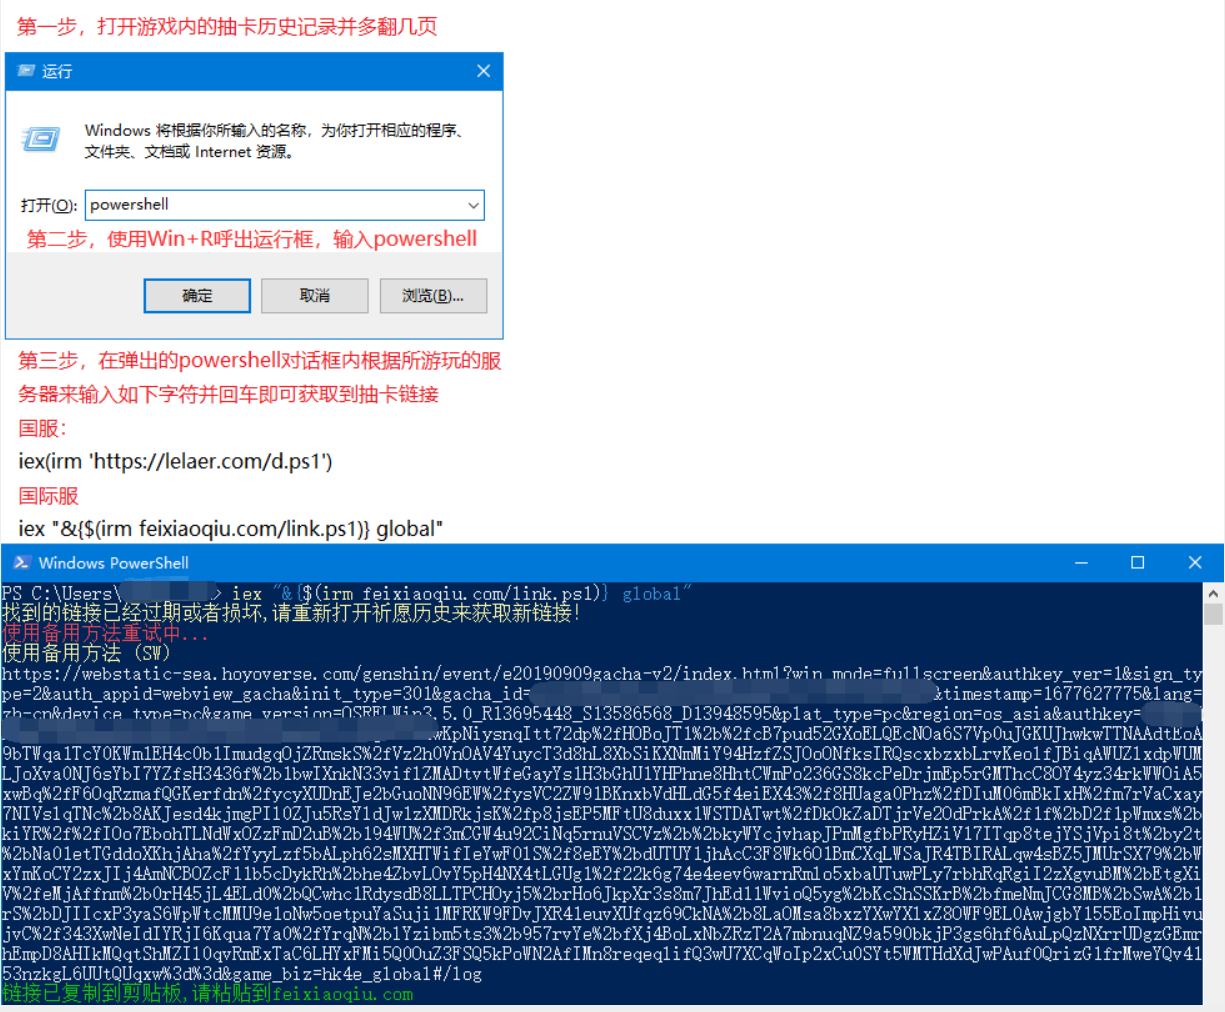
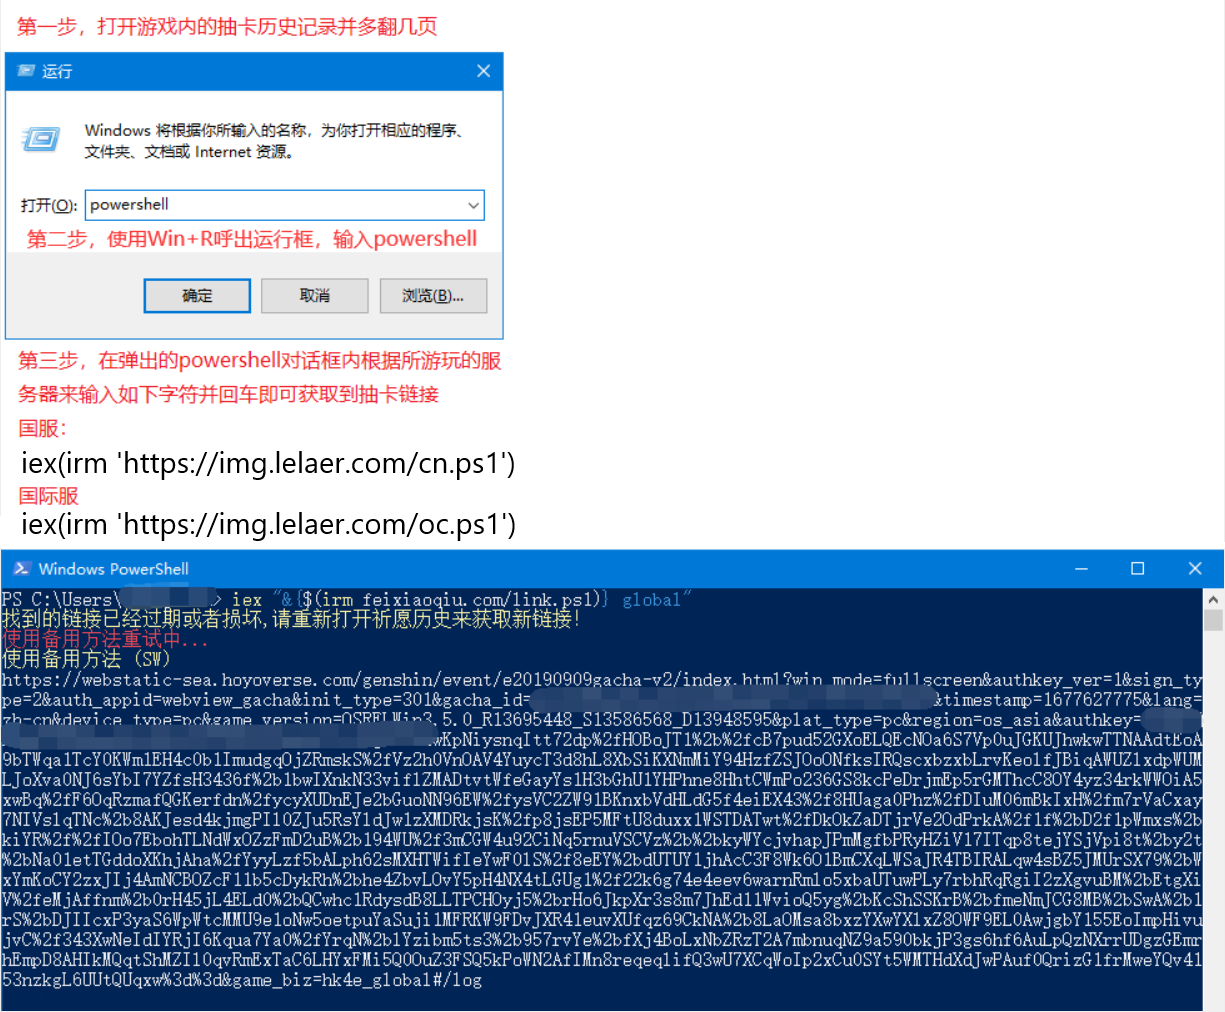
修复兑换码获取报错导致无法处理完整数据的问题 更新 #电脑帮助 文案

Changed region(s): [[0.0, 0.4289, 1.0, 1.0], [0.3102, 0.4289, 0.3412, 0.4595]]

diff --git a/apps/exchange.js b/apps/exchange.js
@@ -4,7 +4,7 @@ import fetch from 'node-fetch'
 import MysInfo from '../model/mys/mysInfo.js'
 
 export class exchange extends plugin {
-  constructor() {
+  constructor () {
     super({
       name: '兑换码',
       dsc: '前瞻直播兑换码',
@@ -23,7 +23,7 @@ export class exchange extends plugin {
     })
   }
 
-  async getCode() {
+  async getCode () {
     let reg = this.e.msg.match(/^(#|\*)?(原神|星铁|崩铁|崩三|崩坏三|崩坏3)?(直播|前瞻)?兑换码$/)
     this.uid = '75276550'
     if (reg[1] == '*' || ["星铁", "崩铁"].includes(reg[2])) {
@@ -42,7 +42,9 @@ export class exchange extends plugin {
 
     /** index info */
     let index = await this.getData('index')
-    if (!index || !index.data) { return true }
+    if (!index || !index.data) {
+      return true
+    }
     if (index.data === null) {
       return await this.reply(`错误：\n${index.message}`)
     }
@@ -74,7 +76,7 @@ export class exchange extends plugin {
     await this.reply(msg)
   }
 
-  async getData(type) {
+  async getData (type) {
     let url = {
       index: `https://api-takumi.mihoyo.com/event/miyolive/index`,
       code: `https://api-takumi-static.mihoyo.com/event/miyolive/refreshCode?version=${this.code_ver}&time=${this.now}`,
@@ -103,14 +105,20 @@ export class exchange extends plugin {
   }
 
   // 获取 "act_id"
-  async getActId() {
-    let ret = await this.getData('actId')
+  async getActId () {
+    let ret = await this.getData('actId');
     if (ret.error || ret.retcode !== 0) {
       return "";
     }
 
     for (const p of ret.data.list) {
-      const post = p.post.post;
+      let post;
+      try {
+        post = p.post.post;
+      } catch (e) {
+        logger.error("活动数据获取异常");
+        logger.error(e);
+      }
       if (!post) {
         continue;
       }
@@ -124,8 +132,9 @@ export class exchange extends plugin {
       }
     }
   }
+
   // 兑换码使用
-  async useCode() {
+  async useCode () {
     let cdkCode = this.e.message[0].text.split(/#(兑换码使用|cdk-u) /, 3)[2];
     let res = await MysInfo.get(this.e, 'useCdk', { cdk: cdkCode })
     if (res) {
